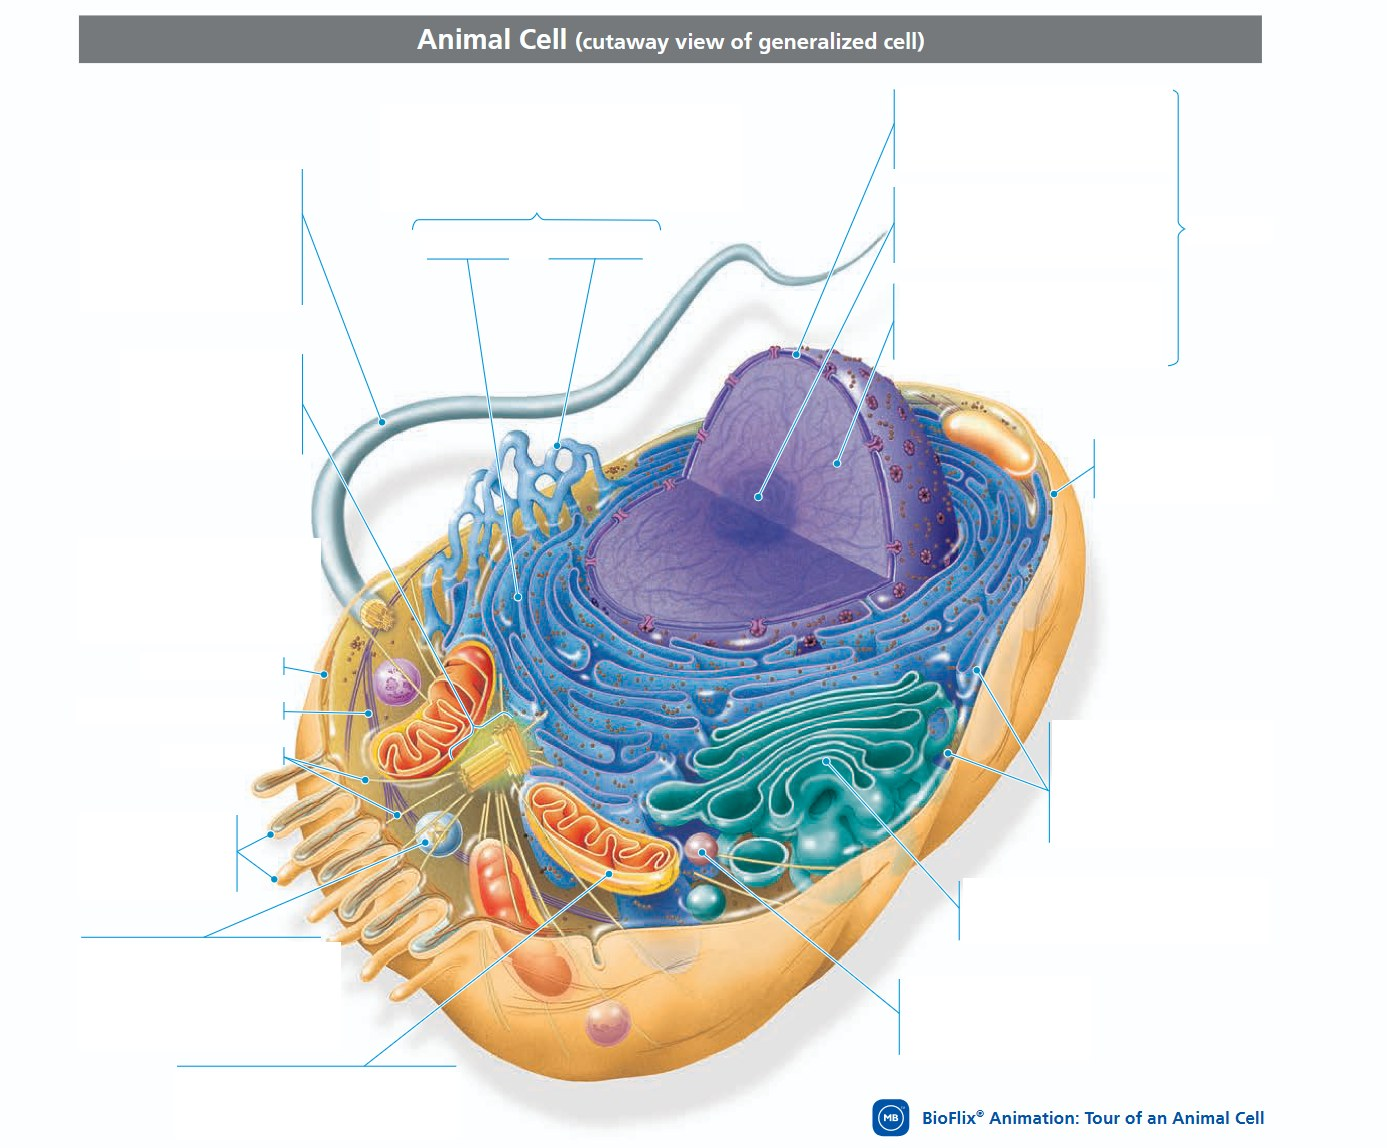
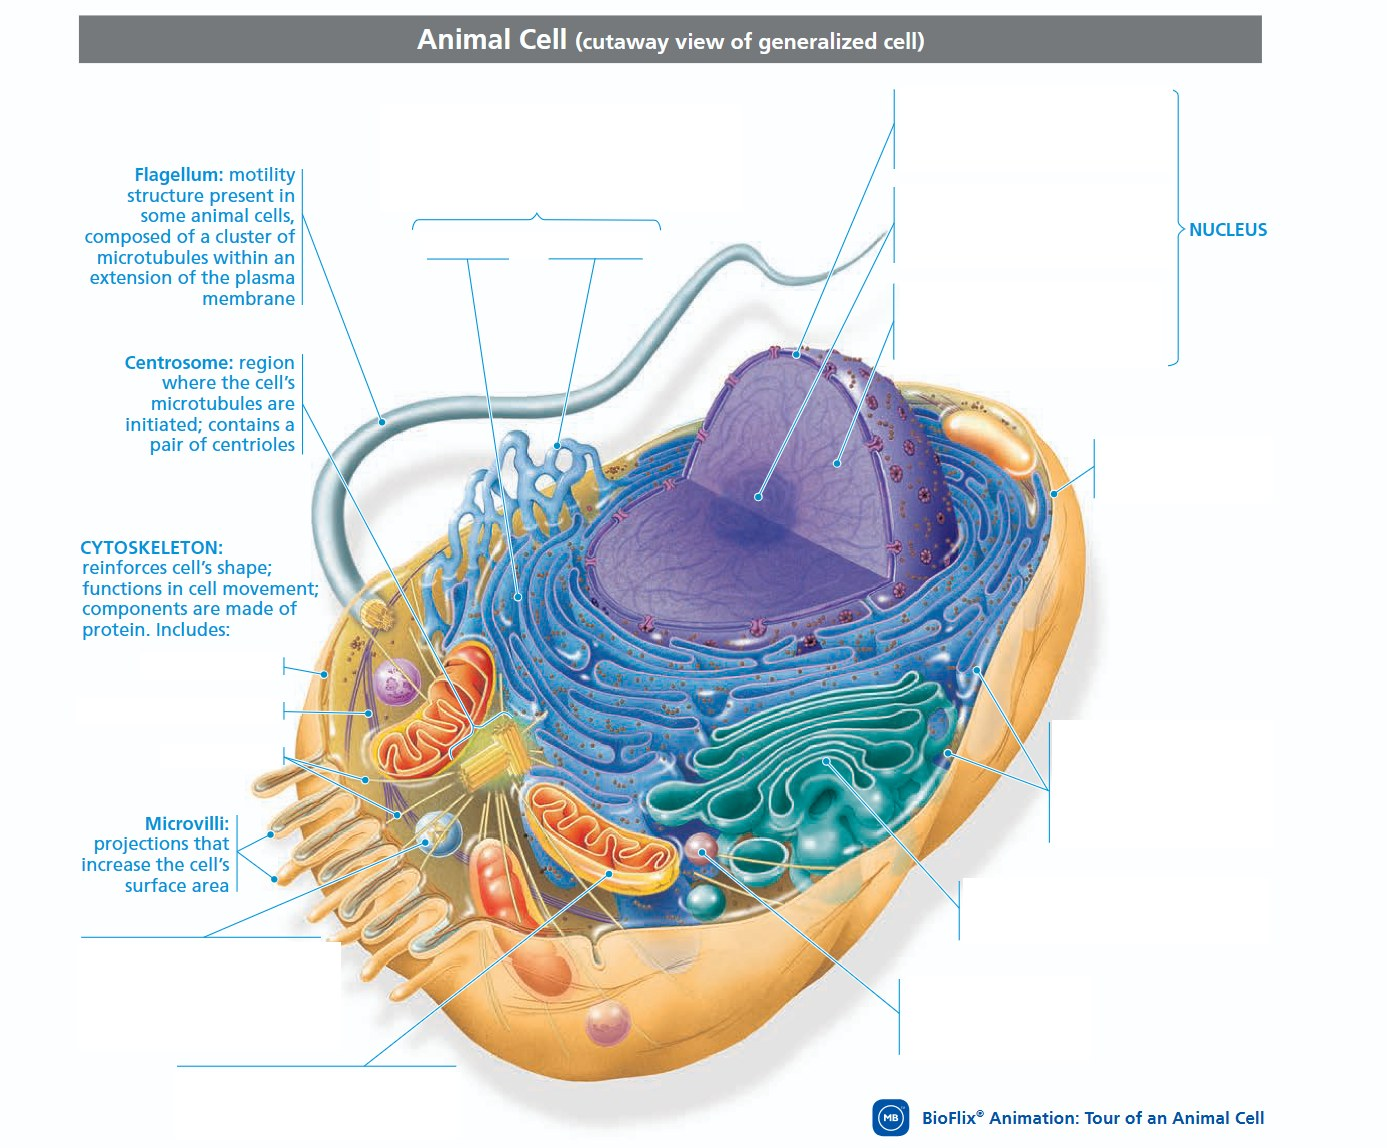
Update

diff --git a/cell-quiz/js/app.js b/cell-quiz/js/app.js
@@ -1,71 +1,66 @@
 var D={
-ne:"Double membrane enclosing the nucleus; perforated by pores and continuous with the ER.",
-nu:"Nonmembranous structure involved in production of ribosomes; a nucleus has one or more nucleoli.",
-ch:"Material consisting of DNA and proteins; visible in a dividing cell as individual condensed chromosomes.",
-rer:"Part of the endoplasmic reticulum studded with ribosomes. The ER is a network of membranous sacs and tubes active in membrane synthesis and other synthetic and metabolic processes.",
-ser:"Part of the endoplasmic reticulum without ribosomes. The ER is a network of membranous sacs and tubes active in membrane synthesis and other synthetic and metabolic processes.",
-ri:"Complexes that make proteins; free in the cytosol or bound to the rough ER or nuclear envelope.",
-go:"Organelle active in synthesis, modification, sorting, and secretion of cell products.",
-mf:"The thinnest cytoskeleton fibers, built from protein; they help the cell hold its shape and move.",
-mt:"Hollow protein tubes, the thickest cytoskeleton fibers; they shape the cell and guide movement inside it.",
-mi:"Organelle where cellular respiration occurs and most ATP is generated.",
-pe:"Organelle with various specialized metabolic functions; produces hydrogen peroxide as a by-product and then converts it to water.",
-pm:"Membrane enclosing the cell."
+"mf": "Micro filaments made from Actin in muscles and other kinds of cells",
+"if": "Component of the cytoskeleton that includes filaments intermediate in size between microtubules and microfilaments",
+"mt": "A hollow rod composed of tumbling proteins that makes up part of the cytoskeleton in all eukaryotic cells and is found in cilia and flagella.",
+"pe": "An organelle containing enzymes that transfer hydrogen atoms from various substrates to oxygen (O2) producing and then degrading hydrogen peroxide (H2O2)",
+"mi": "Organelle in eukaryotic cells that serve as sites of cellular respiration. Uses oxygen to break down organic molecules and synthesize ATP.",
+"rer": "Portion of the endoplasmic reticulum with ribosomes attached.",
+"ser": "Portion of endoplasmic reticulum that is free of ribosomes.",
+"ne": "The double membrane that surrounds the nucleus, perforated with pores that regulate traffic with the cytoplasm. Outer membrane is continuous with the endoplasmic reticulum",
+"nu": "A specialized structure in the nucleus, consisting of chromosomal regions containing ribosomal RNA (rRNA) genes along with ribosomal proteins imported from the cytoplasm; site of rRNA synthesis and ribosomal subunit assembly.",
+"ch": "The complex DNA and proteins that makes up eukaryotic chromosomes. Chromosomes exist in its dispersed form (mass of long thing fibers) when not being used in cellular division",
+"pm": "Membrane at the boundary of every cell that acts as a selective barrier, regulating the cell’s chemical composition.",
+"ri": "A complex of rRNA and protein molecules that functions as a site of protein synthesis in the cytoplasm; consists of a large and a small subunit. In eukaryotic cells, each subunit is assembled in the nucleolus.",
+"go": "An organelle in eukaryotic cells consisting of stacks of flat membranous sacs that modify, store and route products of the endoplasmic reticulum and synthesize some products, notably non-cellulose carbohydrates.",
+"ly": "A membrane enclosed sac of hydrologic enzymes found in the cytoplasm of animal cells and some protists",
+"cv": "A large membranous sac with the role of storage, growth, and sequent ion of toxic substances. found in a mature plant cell.",
+"cw": "A protective layer external to the plasma membrane in the cells of plants, prokaryotes, fungi, and some protists. Polysaccharides like cellulose, chitin, and peptidoglycan, make up the cell wall.",
+"cp": "An organelle found in plants and photosynthetic protists that absorb sunlight and uses it to drive the synthesis of organic compounds from carbon dioxide and water.",
+"pd": "An open channel through the cell wall that connects the cytoplasm of adjacent plant cells, allowing water, small solutes, and some larger molecules to pass between the cells."
 };
 var C={
-animal:{label:"Animal cell",img:"images/animal-cell.jpg",W:1387,H:1148,alt:"Cutaway diagram of a generalized animal cell with its labels removed",T:[
-{n:"Flagellum",a:["flagellum","flagella"],x:205,y:235,w:170,d:"Motility structure present in some animal cells, made of a cluster of microtubules inside an extension of the plasma membrane."},
-{n:"Centrosome",a:["centrosome"],x:205,y:405,w:170,d:"Region where the cell’s microtubules are initiated; contains a pair of centrioles."},
-{n:"Microfilaments",a:["microfilament","actin filament"],x:195,y:665,w:170,d:D.mf},
-{n:"Intermediate filaments",a:["intermediate filament"],x:185,y:711,w:190,d:"Rope-like cytoskeleton fibers of medium thickness that reinforce cell shape and anchor organelles."},
+animal:{label:"Animal cell",img:"images/animal-cell.jpg",W:1387,H:1148,alt:"Cutaway diagram of a generalized animal cell with the quiz labels removed",T:[
+{n:"Microfilaments",a:["microfilament", "micro filament", "actin filament"],x:195,y:665,w:170,d:D.mf},
+{n:"Intermediate filaments",a:["intermediate filament"],x:185,y:711,w:190,d:D.if},
 {n:"Microtubules",a:["microtubule"],x:190,y:756,w:170,d:D.mt},
-{n:"Microvilli",a:["microvilli","microvillus"],x:155,y:855,w:150,d:"Projections that increase the cell’s surface area."},
 {n:"Peroxisome",a:["peroxisome"],x:190,y:962,w:190,d:D.pe},
-{n:"Mitochondrion",a:["mitochondrion","mitochondria"],x:317,y:1105,w:190,d:D.mi},
-{n:"Rough ER",a:["rough er","rough endoplasmic reticulum","rer"],x:468,y:246,w:140,d:D.rer},
-{n:"Smooth ER",a:["smooth er","smooth endoplasmic reticulum","ser"],x:596,y:246,w:140,d:D.ser},
-{n:"Nuclear envelope",a:["nuclear envelope","nuclear membrane"],x:1010,y:128,w:190,d:D.ne},
-{n:"Nucleolus",a:["nucleolus","nucleoli"],x:1030,y:225,w:190,d:D.nu},
+{n:"Mitochondrion",a:["mitochondrion", "mitochondria"],x:317,y:1105,w:190,d:D.mi},
+{n:"Rough ER",a:["rough er", "rough endoplasmic reticulum", "rer"],x:468,y:246,w:140,d:D.rer},
+{n:"Smooth ER",a:["smooth er", "smooth endoplasmic reticulum", "ser"],x:596,y:246,w:140,d:D.ser},
+{n:"Nuclear envelope",a:["nuclear envelope", "nuclear membrane"],x:1010,y:128,w:190,d:D.ne},
+{n:"Nucleolus",a:["nucleolus", "nucleoli"],x:1030,y:225,w:190,d:D.nu},
 {n:"Chromatin",a:["chromatin"],x:1030,y:322,w:190,d:D.ch},
-{n:"Plasma membrane",a:["plasma membrane","cell membrane"],x:1200,y:468,w:180,d:D.pm},
+{n:"Plasma membrane",a:["plasma membrane", "cell membrane", "plasma cell membrane"],x:1200,y:468,w:180,d:D.pm},
 {n:"Ribosomes",a:["ribosome"],x:1160,y:782,w:190,d:D.ri},
-{n:"Golgi apparatus",a:["golgi apparatus","golgi","golgi body","golgi complex"],x:1115,y:912,w:190,d:D.go},
-{n:"Lysosome",a:["lysosome"],x:1000,y:1018,w:170,d:"Digestive organelle where macromolecules are hydrolyzed."}
+{n:"Golgi apparatus",a:["golgi apparatus", "golgi", "golgi body", "golgi complex"],x:1115,y:912,w:190,d:D.go},
+{n:"Lysosome",a:["lysosome"],x:1000,y:1018,w:170,d:D.ly}
 ]},
-plant:{label:"Plant cell",img:"images/plant-cell.jpg",W:1155,H:978,alt:"Cutaway diagram of a generalized plant cell with its labels removed",T:[
-{n:"Nuclear envelope",a:["nuclear envelope","nuclear membrane"],x:240,y:98,w:130,d:D.ne},
-{n:"Nucleolus",a:["nucleolus","nucleoli"],x:245,y:127,w:120,d:D.nu},
+plant:{label:"Plant cell",img:"images/plant-cell.jpg",W:1155,H:978,alt:"Cutaway diagram of a generalized plant cell with the quiz labels removed",T:[
+{n:"Nuclear envelope",a:["nuclear envelope", "nuclear membrane"],x:240,y:98,w:130,d:D.ne},
+{n:"Nucleolus",a:["nucleolus", "nucleoli"],x:245,y:127,w:120,d:D.nu},
 {n:"Chromatin",a:["chromatin"],x:245,y:155,w:120,d:D.ch},
-{n:"Rough ER",a:["rough er","rough endoplasmic reticulum","rer"],x:505,y:118,w:110,d:D.rer},
-{n:"Smooth ER",a:["smooth er","smooth endoplasmic reticulum","ser"],x:633,y:185,w:110,d:D.ser},
+{n:"Rough ER",a:["rough er", "rough endoplasmic reticulum", "rer"],x:505,y:118,w:110,d:D.rer},
+{n:"Smooth ER",a:["smooth er", "smooth endoplasmic reticulum", "ser"],x:633,y:185,w:110,d:D.ser},
 {n:"Ribosomes",a:["ribosome"],x:885,y:326,w:130,d:D.ri},
-{n:"Central vacuole",a:["central vacuole","vacuole","large central vacuole"],x:910,y:396,w:140,d:"Prominent organelle in older plant cells; functions include storage, breakdown of waste products, and hydrolysis of macromolecules; enlargement of the vacuole is a major mechanism of plant growth."},
-{n:"Golgi apparatus",a:["golgi apparatus","golgi","golgi body","golgi complex"],x:145,y:412,w:120,d:D.go},
-{n:"Microfilaments",a:["microfilament","actin filament"],x:868,y:505,w:115,d:D.mf},
+{n:"Central vacuole",a:["central vacuole", "vacuole", "large central vacuole"],x:910,y:396,w:140,d:D.cv},
+{n:"Golgi apparatus",a:["golgi apparatus", "golgi", "golgi body", "golgi complex"],x:145,y:412,w:120,d:D.go},
+{n:"Microfilaments",a:["microfilament", "micro filament", "actin filament"],x:868,y:505,w:115,d:D.mf},
 {n:"Microtubules",a:["microtubule"],x:862,y:532,w:105,d:D.mt},
-{n:"Mitochondrion",a:["mitochondrion","mitochondria"],x:152,y:695,w:110,d:D.mi},
+{n:"Mitochondrion",a:["mitochondrion", "mitochondria"],x:152,y:695,w:110,d:D.mi},
 {n:"Peroxisome",a:["peroxisome"],x:178,y:737,w:100,d:D.pe},
-{n:"Plasma membrane",a:["plasma membrane","cell membrane"],x:176,y:777,w:120,d:D.pm},
-{n:"Cell wall",a:["cell wall"],x:228,y:853,w:140,d:"Outer layer that maintains the cell’s shape and protects it from mechanical damage; made of cellulose, other polysaccharides, and protein."},
-{n:"Wall of adjacent cell",a:["wall of adjacent cell","adjacent cell wall","cell wall of adjacent cell","neighboring cell wall"],x:296,y:919,w:145,d:"The cell wall of a neighboring cell, which sits next to this cell’s own wall."},
-{n:"Chloroplast",a:["chloroplast"],x:835,y:790,w:130,d:"Photosynthetic organelle; converts energy of sunlight to chemical energy stored in sugar molecules."},
-{n:"Plasmodesmata",a:["plasmodesmata","plasmodesma"],x:620,y:910,w:130,d:"Cytoplasmic channels through cell walls that connect the cytoplasms of adjacent cells."}
-]}
-,prokaryote:{label:"Prokaryotic cell",img:"images/prokaryotic-cell.jpg",W:1735,H:1052,alt:"Diagram of a rod-shaped prokaryotic cell and a colorized TEM of a bacterium, with labels removed",T:[
-{n:"Fimbriae",a:["fimbriae","fimbria"],x:790,y:170,w:190,d:"Attachment structures on the surface of some prokaryotes (not visible on TEM)."},
-{n:"Nucleoid",a:["nucleoid"],x:818,y:275,w:170,d:"Region where the cell’s DNA is located (not enclosed by a membrane)."},
-{n:"Ribosomes",a:["ribosome"],x:890,y:372,w:170,d:"Complexes that synthesize proteins."},
-{n:"Plasma membrane",a:["plasma membrane","cell membrane"],x:908,y:453,w:190,d:"Membrane enclosing the cytoplasm."},
-{n:"Cell wall",a:["cell wall"],x:970,y:538,w:170,d:"Rigid structure outside the plasma membrane."},
-{n:"Glycocalyx",a:["glycocalyx","capsule"],x:1025,y:650,w:170,d:"Outer coating of many prokaryotes, consisting of a capsule or a slime layer."},
-{n:"Flagella",a:["flagella","flagellum"],x:955,y:780,w:150,d:"Locomotion organelles of some prokaryotes."}
+{n:"Plasma membrane",a:["plasma membrane", "cell membrane", "plasma cell membrane"],x:176,y:777,w:120,d:D.pm},
+{n:"Cell wall",a:["cell wall"],x:228,y:853,w:140,d:D.cw},
+{n:"Chloroplast",a:["chloroplast"],x:835,y:790,w:130,d:D.cp},
+{n:"Plasmodesmata",a:["plasmodesmata", "plasmodesma"],x:620,y:910,w:130,d:D.pd}
+]},
+prokaryote:{label:"Prokaryotic cell",img:"images/prokaryotic-cell.jpg",W:1735,H:1052,alt:"Diagram of a rod-shaped prokaryotic cell and a colorized TEM of a bacterium with the quiz labels removed",T:[
+{n:"Ribosomes",a:["ribosome"],x:890,y:372,w:170,d:D.ri},
+{n:"Plasma membrane",a:["plasma membrane", "cell membrane", "plasma cell membrane"],x:908,y:453,w:190,d:D.pm},
+{n:"Cell wall",a:["cell wall"],x:970,y:538,w:170,d:D.cw}
 ]}};
-var KEY="cell-quiz-v2", store={animal:{},plant:{},prokaryote:{}}, cur="animal", hints=false, openId=null, els=[];
+var KEY="cell-quiz-v3", store={animal:{},plant:{},prokaryote:{}}, cur="animal", hints=false, openId=null, els=[];
 function norm(s){return s.toLowerCase().replace(/[^a-z]/g,"").replace(/s$/,"");}
-try{var raw=localStorage.getItem(KEY);
-  if(raw){store=JSON.parse(raw)||store;}
-  else{var old=localStorage.getItem("animal-cell-quiz-v1"); if(old)store.animal=JSON.parse(old)||{};}
-}catch(e){}
+try{var raw=localStorage.getItem(KEY); if(raw){store=JSON.parse(raw)||store;}}catch(e){}
 store.animal=store.animal||{}; store.plant=store.plant||{}; store.prokaryote=store.prokaryote||{};
 function save(){try{localStorage.setItem(KEY,JSON.stringify(store));}catch(e){}}
 var stage=document.getElementById("stage"), cards=document.getElementById("cards"), img=document.getElementById("pic");

diff --git a/cell-quiz/README.md b/cell-quiz/README.md
@@ -11,10 +11,12 @@ Open `index.html` in any modern browser. No build step or server is needed.
 - `index.html` - page structure
 - `css/style.css` - styles (light and dark mode)
 - `js/app.js` - quiz data (names, accepted answers, definitions, box positions) and logic
-- `images/` - diagrams with the printed labels removed
+- `images/` - diagrams with the quiz labels removed
 - `images/originals/` - the original, fully labeled diagrams
 
 ## Editing
 In `js/app.js`, each cell has a list `T` of structures:
 `{n: name, a: [accepted answers], x, y: box center in image pixels, w: box width, d: definition}`.
 `W` and `H` for each cell are the image's pixel size. Progress is saved in the browser's localStorage.
+
+Definitions come from the supplied glossary and are used word for word.
